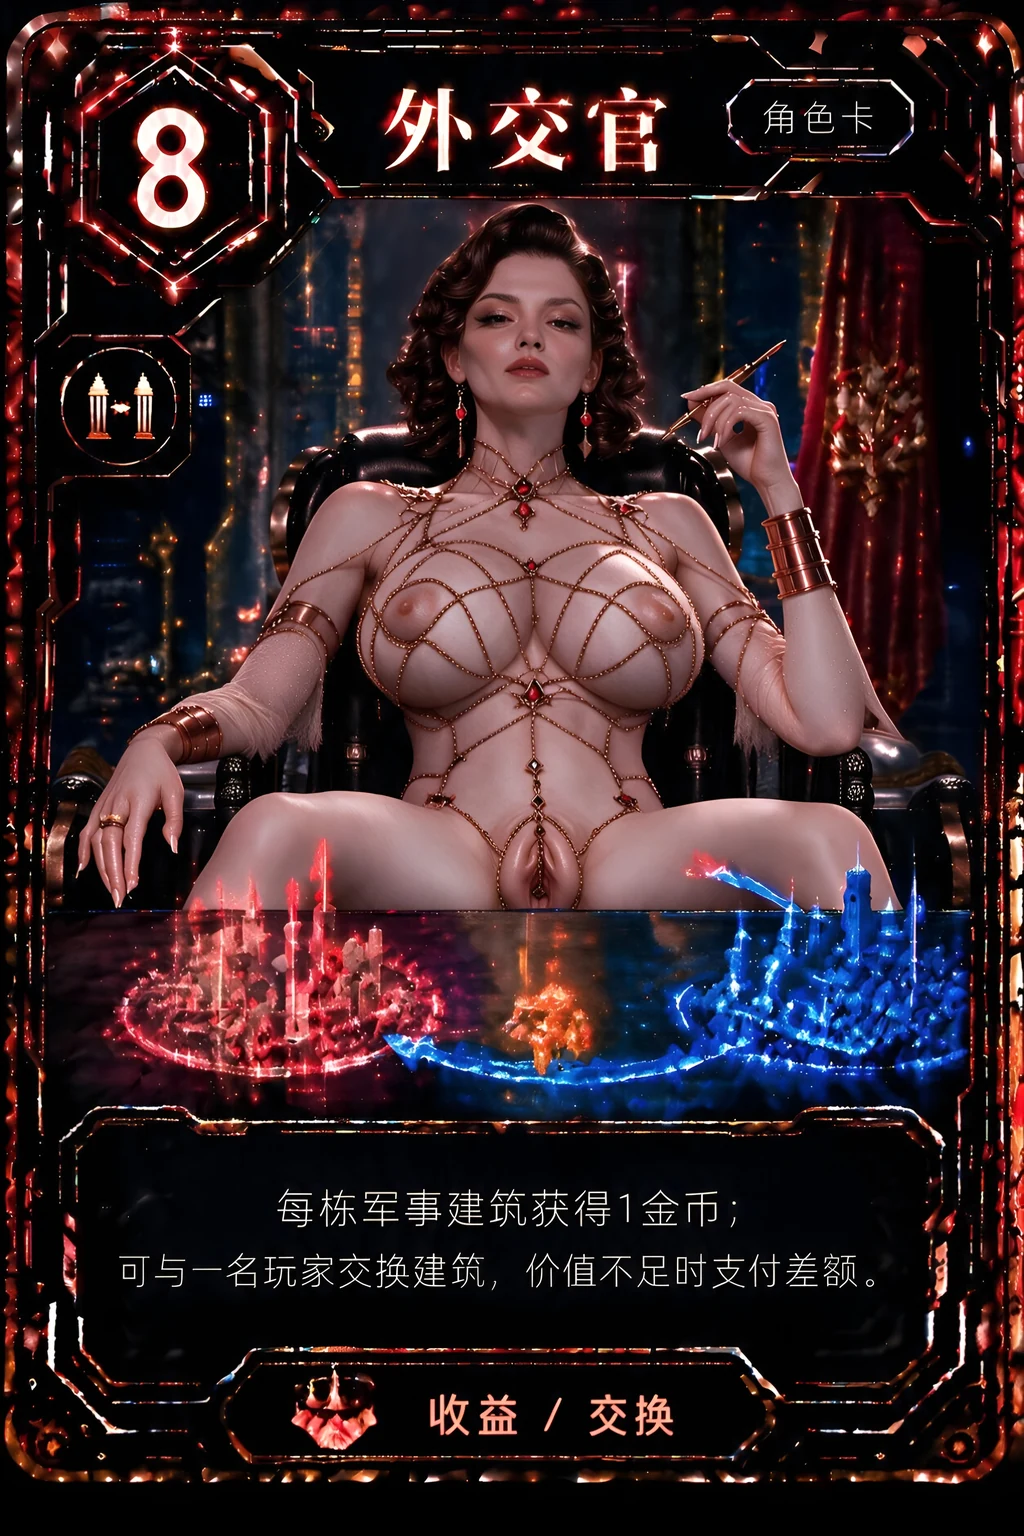
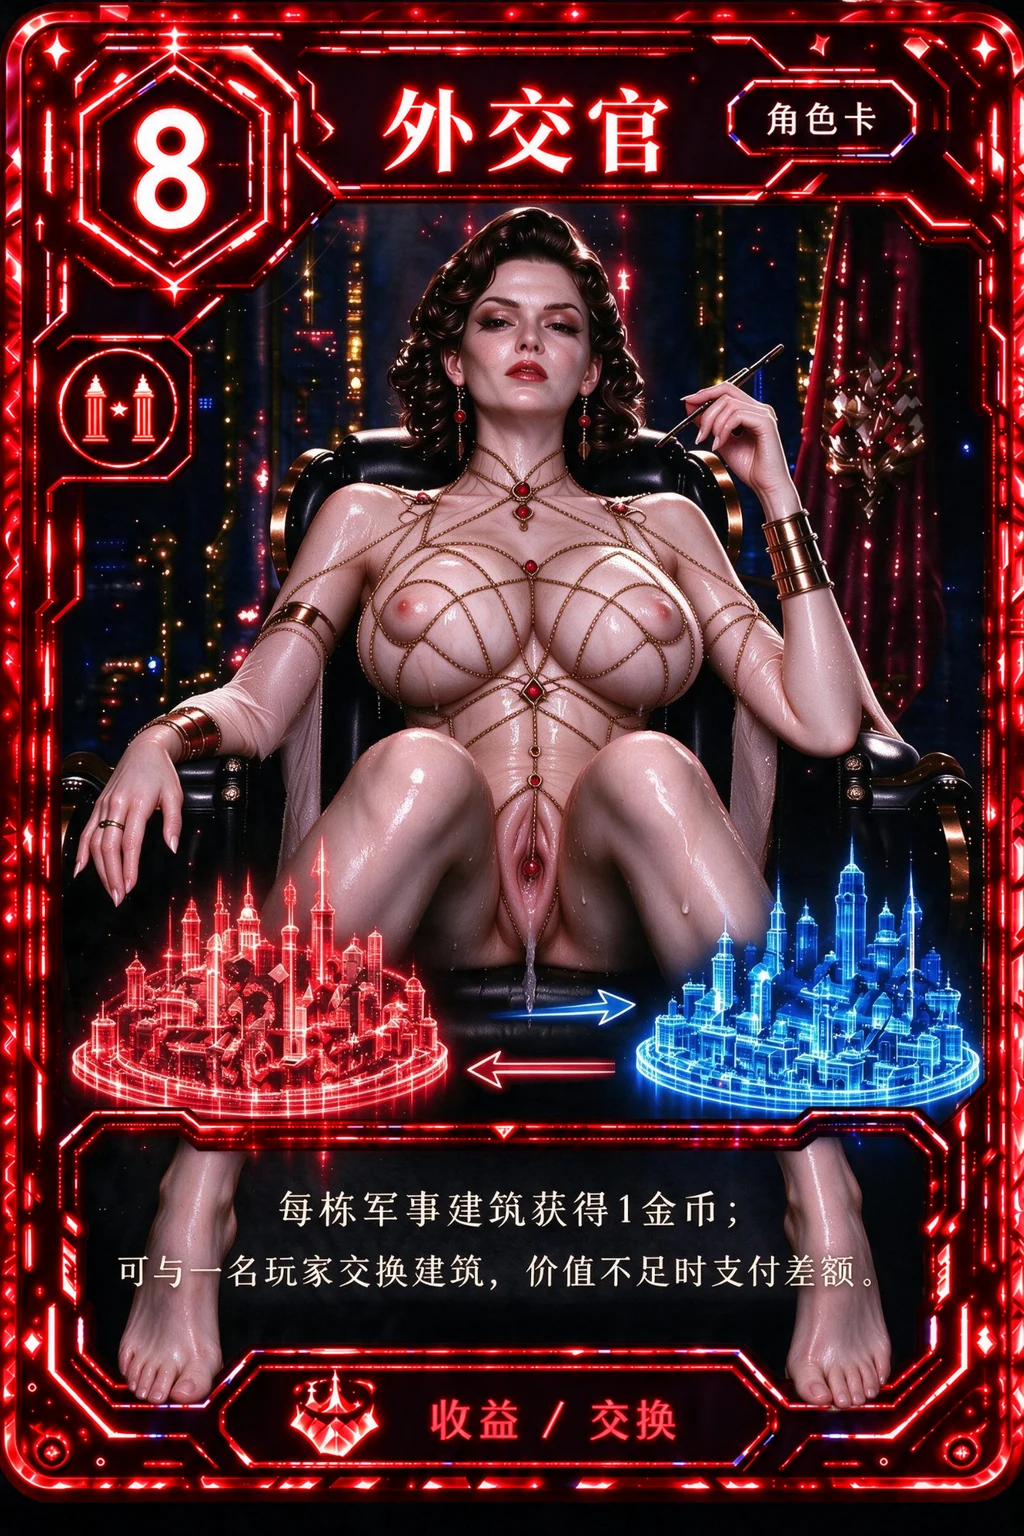
feat(theme): 更新五张角色卡立绘

diff --git a/public/themes/neon/manifest.js b/public/themes/neon/manifest.js
@@ -22,20 +22,22 @@
   ];
 
   function variants(folder, key) {
-    // 墓地卡图曾把建造费用 5 错印成能力支付费用 1，勒索者、法师、主教、生意人、外交官和国王卡图已更新，
+    // 墓地卡图曾把建造费用 5 错印成能力支付费用 1，多张角色卡已更新；
     // 魔术师恢复为原卡图；
     // 单独版本化，让已安装 PWA 绕过旧图片的 HTTP / Service Worker 缓存。
     const versioned = (folder === 'districts' && key === 'graveyard') ||
-      (folder === 'roles' && (key === 'blackmailer' || key === 'magician' || key === 'wizard' || key === 'bishop' || key === 'spy' || key === 'businessman' || key === 'diplomat' || key === 'king'));
+      (folder === 'roles' && (key === 'blackmailer' || key === 'magician' || key === 'wizard' || key === 'bishop' || key === 'spy' || key === 'businessman' || key === 'diplomat' || key === 'king' || key === 'alchemist' || key === 'architect'));
     const version = folder === 'roles' && key === 'magician'
       ? '?v=3'
       : (folder === 'roles' && key === 'bishop'
-        ? '?v=3'
+        ? '?v=4'
         : (folder === 'roles' && key === 'spy'
           ? '?v=3'
           : (folder === 'roles' && key === 'diplomat'
-            ? '?v=3'
-            : (versioned ? '?v=2' : ''))));
+            ? '?v=4'
+            : (folder === 'roles' && key === 'wizard'
+              ? '?v=3'
+              : (versioned ? '?v=2' : '')))));
     return {
       thumb: base + folder + '/thumb/' + key + '.webp' + version,
       full: base + folder + '/full/' + key + '.webp' + version
